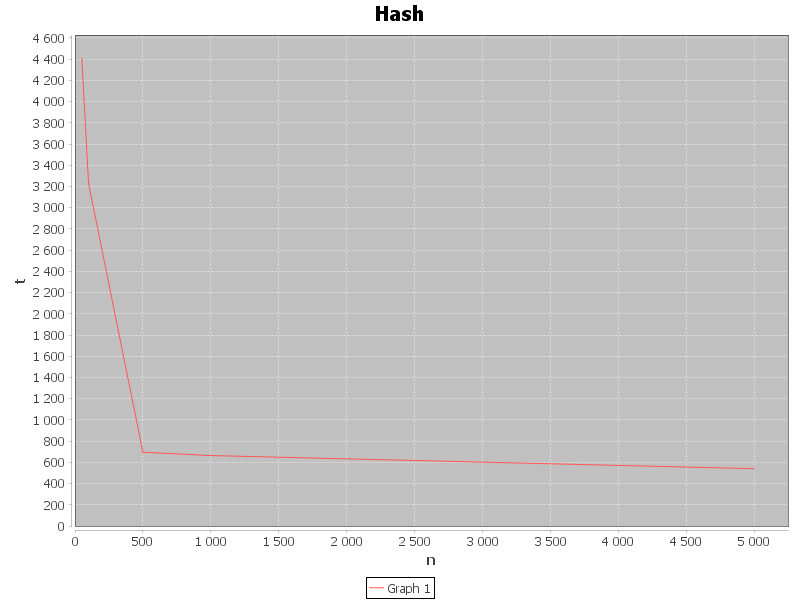
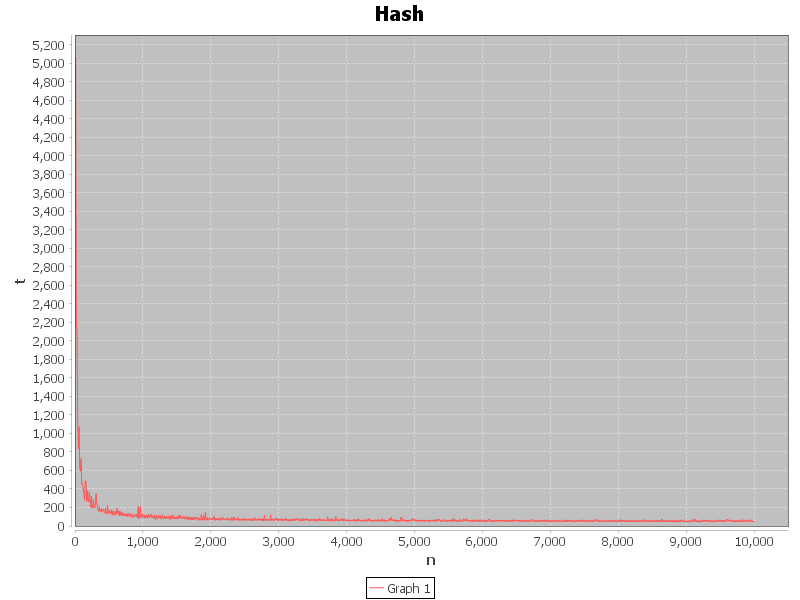
added more points to the graph

diff --git a/src/main/java/Main.java b/src/main/java/Main.java
@@ -29,7 +29,11 @@ public class Main {
         System.out.println(r);
         System.out.println(run(1000));
         XYSeries s = new XYSeries("Graph 1");
-        int [] ns = {50,100,500,1000,5000};
+        int [] ns = new int[1000];
+        for (int i=0;i<1000;i++)
+        {
+            ns[i]=10*(i+1);
+        }
         for (int n:ns){
             long time=run(n);
             s.add(n,time);
